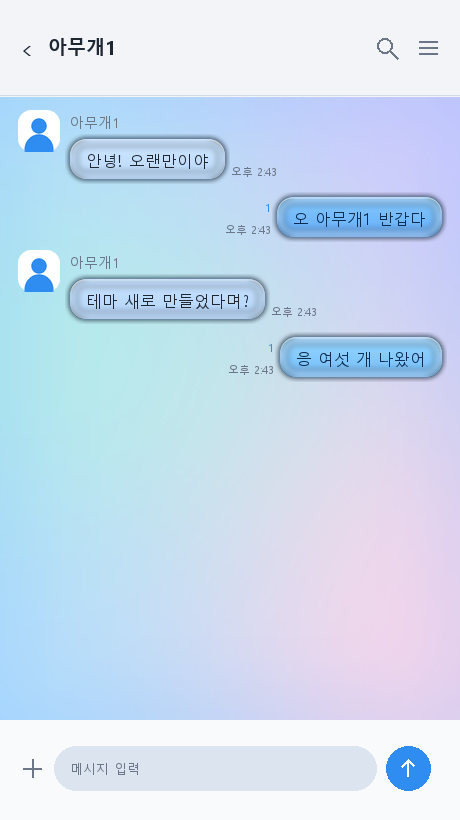
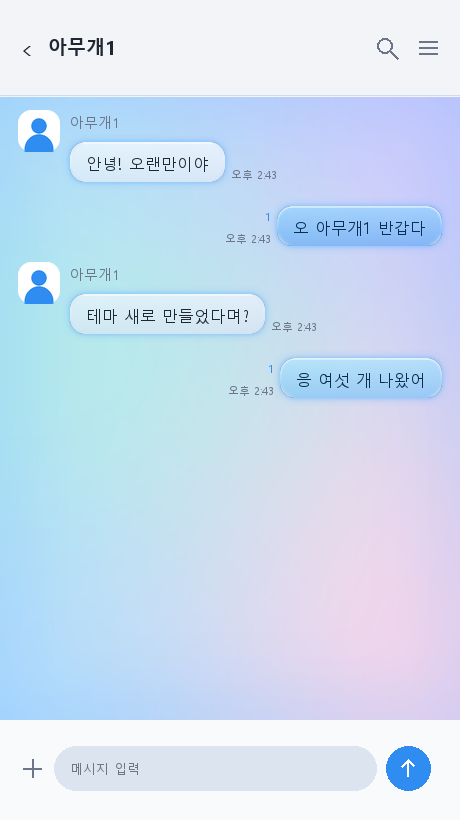
글로우를 다시 만든다
실물로 보니 조잡했다. 원인이 둘이다.

하나, 흐림이 그림 경계에서 잘렸다. 여백 끝에서 알파가 22 로 남은 채 끊기니 말풍선
둘레에 네모난 테두리가 그대로 보였다. 이제 가장자리에서 0 이 되도록 창을 씌운다.

둘, 흐림을 한 번만 걸어서 낙차가 일정했다. 빛이 아니라 띠로 보인다. 반경이 다른 흐림
셋을 겹쳐 가까이는 진하고 멀리는 길게 끌리게 했다.

안쪽 발광도 다시 만들었다. 테두리를 직접 그리고 흐리니 두께가 일정한 굵은 링이 됐다.
mask 에서 흐린 mask 를 빼는 방식으로 바꾸면 둥근 모서리를 그대로 따라가는 얇은 띠가
나온다. 훨씬 매끈하고 자리도 안 먹는다.

여백은 6 에서 8pt 로 조금 늘렸다. 간격이 4pt 더 벌어지지만 12pt 로 돌아가지는 않는다.

diff --git a/tools/gen.py b/tools/gen.py
@@ -115,39 +115,48 @@ def bubble_box(w, h, colors, radius, style='solid', alpha=255, glow=None, pad=0,
         out.alpha_composite(rim)
 
     if glow:
-        # 몸통 안쪽 테두리를 밝힌다. 바깥 halo 는 여백만큼 프레임을 키우지만
-        # 이건 자리를 차지하지 않는다. 여백을 좁게 두고도 빛나 보이게 하는 쪽.
         gc = glow[0]
-        lit = lighten(mid(colors[0], colors[1]) if gc == 'auto' else gc, 0.55)
-        band = max(2, radius // 3)
-        inner = Image.new('RGBA', (w * SS, h * SS), (0, 0, 0, 0))
-        ImageDraw.Draw(inner).rounded_rectangle(
-            [SS, SS, w * SS - SS - 1, h * SS - SS - 1],
-            radius=radius * SS, outline=rgb(lit) + (255,), width=band * SS)
-        inner = inner.resize((w, h), Image.LANCZOS)
-        inner = inner.filter(ImageFilter.GaussianBlur(radius=band * 0.7))
-        inner.putalpha(ImageChops.multiply(
-            inner.getchannel('A').point(lambda v: int(v * 0.85)), mask))
+        ga = glow[1]
+        base = mid(colors[0], colors[1]) if gc == 'auto' else gc
+
+        # 안쪽 발광. mask 에서 흐린 mask 를 빼면 가장자리에서 최대가 되는 띠가 나온다.
+        # 둥근 모서리를 그대로 따라가므로 테두리를 직접 그리는 것보다 훨씬 매끈하다.
+        r_in = max(2, int(min(w, h) * 0.055))
+        band = ImageChops.subtract(mask, mask.filter(ImageFilter.GaussianBlur(r_in)))
+        band = ImageChops.multiply(band, mask)
+        inner = Image.new('RGBA', (w, h), rgb(lighten(base, 0.62)) + (255,))
+        inner.putalpha(band.point(lambda v: min(255, int(v * 1.7))))
         out.alpha_composite(inner)
 
     if not pad:
         return out
 
-    # 바깥 글로우: 같은 모양을 글로우 색으로 찍어 흐린 뒤 본체를 그 위에 얹는다
+    # 바깥 halo. 반경이 다른 흐림을 겹쳐서 가까이는 진하고 멀리는 길게 끌리게 만든다.
+    # 한 번만 흐리면 낙차가 일정해서 띠처럼 보인다.
     gw, gh = w + pad * 2, h + pad * 2
-    halo = Image.new('RGBA', (gw, gh), (0, 0, 0, 0))
-    shape = Image.new('L', (gw, gh), 0)
-    ImageDraw.Draw(shape).rounded_rectangle(
-        [pad, pad, pad + w - 1, pad + h - 1], radius=radius, fill=255)
-    gc, ga = glow
-    if gc == 'auto':
-        # 말풍선마다 자기 색으로 빛난다. 칸마다 색이 다른 테마에 어울린다
-        gc = mid(colors[0], colors[1])
-    halo.paste(Image.new('RGBA', (gw, gh), rgb(gc) + (255,)), (0, 0), shape)
-    halo = halo.filter(ImageFilter.GaussianBlur(radius=pad * 0.55))
-    # 흐리면 알파가 얇게 퍼져서 거의 안 보인다. 몸통 가까운 쪽을 끌어올린다
-    halo.putalpha(halo.getchannel('A').point(
-        lambda v: min(255, int(v * 3.2 * ga / 255))))
+    m = Image.new('L', (gw, gh), 0)
+    m.paste(mask, (pad, pad))
+
+    acc = Image.new('L', (gw, gh), 0)
+    for r, k in ((pad * 0.30, 0.55), (pad * 0.60, 0.30), (pad * 1.05, 0.15)):
+        blurred = m.filter(ImageFilter.GaussianBlur(r))
+        acc = ImageChops.add(acc, blurred.point(lambda v, k=k: int(v * k)))
+    acc = ImageChops.subtract(acc, m)          # 몸통 안쪽은 뺀다
+    # 몸통 바로 바깥이 흐림 때문에 절반쯤으로 깎여 있다. 다시 끌어올린다
+    acc = acc.point(lambda v: min(255, int(v * 1.9)))
+
+    # 그림 가장자리에서 0 이 되게 창을 씌운다.
+    # 이게 없으면 흐림이 경계에서 잘려 네모난 테두리가 그대로 보인다.
+    win = Image.new('L', (gw, gh), 0)
+    ImageDraw.Draw(win).rectangle([1, 1, gw - 2, gh - 2], fill=255)
+    win = win.filter(ImageFilter.GaussianBlur(max(1.0, pad * 0.38)))
+    acc = ImageChops.multiply(acc, win)
+
+    ga = glow[1]
+    gc = glow[0]
+    base = mid(colors[0], colors[1]) if gc == 'auto' else gc
+    halo = Image.new('RGBA', (gw, gh), rgb(base) + (255,))
+    halo.putalpha(acc.point(lambda v: int(v * ga / 255)))
     halo.alpha_composite(out, (pad, pad))
     return halo
 

diff --git a/tools/themes.py b/tools/themes.py
@@ -37,7 +37,7 @@ chat_bg
   None 이면 단색. ('linear', 위, 아래) 또는 ('aurora', 바탕, [색...]) 이면 이미지를 그린다.
 """
 
-VERSION = '0.10'
+VERSION = '0.11'
 
 THEMES = [
     dict(
@@ -120,7 +120,7 @@ THEMES = [
         recv=('#FFFFFF', '#E6EDF7'), recv_alt=('#F3F7FF', '#DCE6F4'),
         send_text='#0B2D50', recv_text='#1F2733',
         bubble_style='glass', bubble_alpha=165, cell_alpha=0.55,
-        glow=('#6FB6FF', 110, 5),
+        glow=('#6FB6FF', 140, 8),
         chat_bg=('blobs', '#EFF3FA', ['#9BD4FF', '#C9B6FF', '#9BF0DC', '#FFC8E4']),
         main_bg=('blobs', '#F4F6FB', ['#BFE2FF', '#DCD0FF', '#C4F3E6', '#FFD9EC']),
     ),
@@ -134,7 +134,7 @@ THEMES = [
         recv=('#39404F', '#262C38'), recv_alt=('#454D5E', '#2F3542'),
         send_text='#EAF4FF', recv_text='#E8EDF6',
         bubble_style='glass', bubble_alpha=175, cell_alpha=0.55,
-        glow=('#5AB5FF', 150, 6),
+        glow=('#5AB5FF', 180, 8),
         chat_bg=('blobs', '#0B0E14', ['#2F6FB5', '#6A4FB0', '#2E8C7E', '#B0487F']),
         main_bg=('blobs', '#10131A', ['#27568C', '#4E3C86', '#256B61', '#8A3A64']),
     ),
@@ -177,7 +177,7 @@ def _add_variant(src, key, name, note, **over):
 
 _add_variant('mixed04', 'mixed09', '믹스드 v2',
              '믹스드에 글로우를 얹은 것. 말풍선마다 자기 색으로 빛남',
-             glow=('auto', 160, 6))
+             glow=('auto', 190, 8))
 _add_variant('candy06', 'candy10', '캔디 팝 v2',
              '캔디 팝에 글로우를 얹은 것. 밝은 바탕이라 빛이 은은하게 걸림',
-             glow=('auto', 150, 5))
+             glow=('auto', 175, 8))
